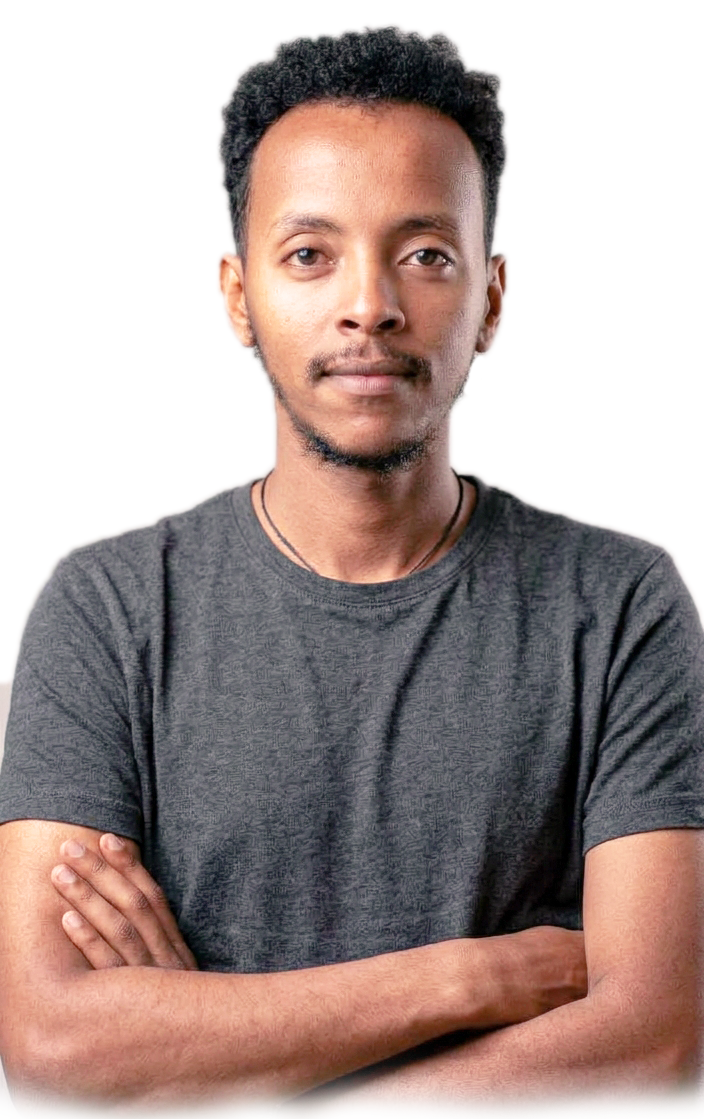
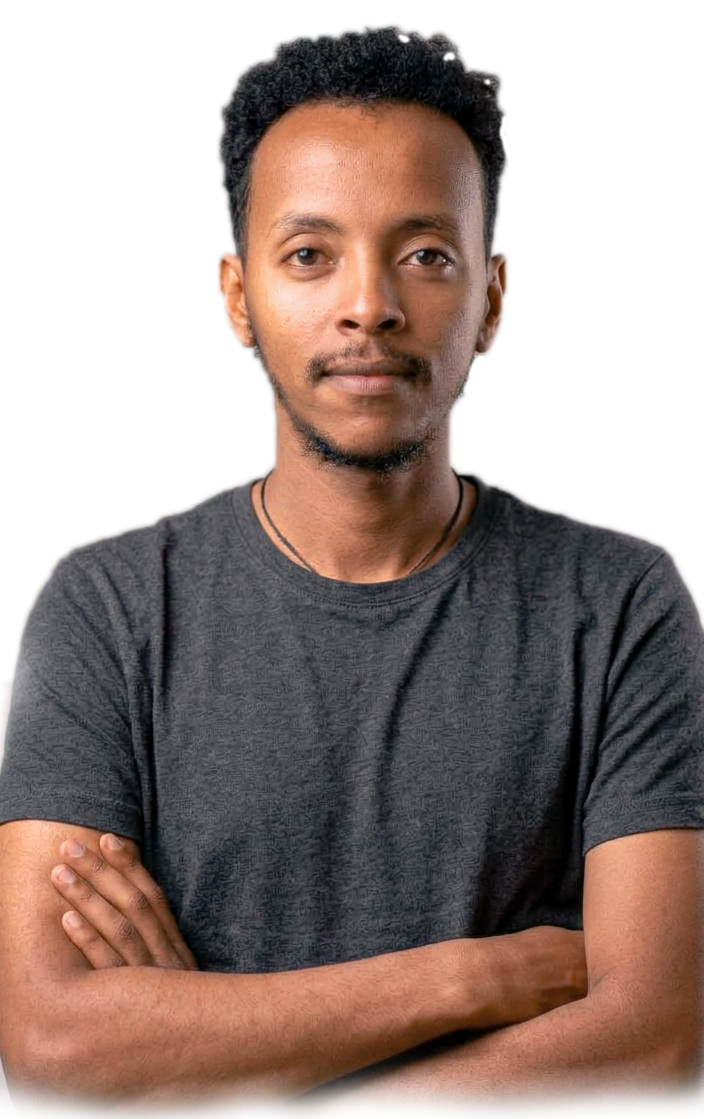
final

diff --git a/index.html b/index.html
@@ -166,6 +166,54 @@ input.error,textarea.error,select.error{border-color:#d93f3f}.form-error{font-si
 @media(max-width:700px){.hide-mobile{display:none}.hero-metrics{grid-template-columns:1fr 1fr}.hero-metric:nth-child(3){border-left:0;padding-left:0}.hero-metric:nth-child(n+3){border-top:1px solid var(--line);margin-top:1rem}.hero-actions .btn{flex:1 1 auto}.t-nav{display:none!important}}
 @media(prefers-reduced-motion:reduce){*,*::before,*::after{animation:none!important;transition:none!important;scroll-behavior:auto!important}}
 @media print{.navbar,.floating-actions,.scroll-progress,.skip-link{display:none}}
+
+/* ===== Modern motion layer (additive) ===== */
+/* hero photo slideshow */
+.profile-photo{isolation:isolate;transition:transform .6s cubic-bezier(.2,.7,.2,1);will-change:transform}
+.profile-photo::after{content:"";position:absolute;inset:auto 0 0 0;height:5rem;background:linear-gradient(transparent,rgba(5,15,20,.5));z-index:4;pointer-events:none}
+.photo-slide{opacity:0;z-index:1;transform:scale(1.05);filter:blur(10px) saturate(.85);transition:opacity 1.2s ease,filter 1.2s ease}
+.photo-slide.active{opacity:1;z-index:2;filter:none;animation:photoIn 1.3s cubic-bezier(.77,0,.18,1) both,kenburns 6.5s cubic-bezier(.3,.6,.3,1) both}
+@keyframes photoIn{from{clip-path:inset(0 0 0 100%)}to{clip-path:inset(0 0 0 0)}}
+@keyframes kenburns{from{transform:scale(1)}to{transform:scale(1.05)}}
+.photo-paused .photo-slide.active{animation-play-state:paused}
+.photo-dots{position:absolute;left:1rem;right:1rem;bottom:.35rem;display:flex;gap:.4rem;z-index:5}
+.photo-dot{flex:1;height:1.1rem;display:flex;align-items:center;background:none;border:0;padding:0;cursor:pointer}
+.photo-dot[hidden]{display:none}
+.photo-dot span{display:block;width:100%;height:3px;border-radius:9px;background:rgba(255,255,255,.35);position:relative;overflow:hidden}
+.photo-dot span::after{content:"";position:absolute;inset:0;background:#fff;transform:scaleX(0);transform-origin:left}
+.photo-dot.done span::after{transform:scaleX(1)}
+.photo-dot.active span::after{animation:dotfill 5s linear forwards}
+.photo-paused .photo-dot.active span::after{animation-play-state:paused}
+@keyframes dotfill{to{transform:scaleX(1)}}
+.hero-visual::before,.hero-visual::after{animation:bracket 3.2s ease-in-out infinite alternate}
+@keyframes bracket{to{transform:translate(-3px,-3px);opacity:.8}}
+.hero-visual::after{animation-name:bracket2}
+@keyframes bracket2{to{transform:translate(3px,3px);opacity:.8}}
+/* section title accent */
+.section-title{position:relative;padding-bottom:.6rem}
+.section-title::after{content:"";position:absolute;left:0;bottom:0;height:3px;width:2.6rem;background:var(--gold);border-radius:9px;transform:scaleX(0);transform-origin:left;transition:transform .9s .3s cubic-bezier(.2,.7,.2,1)}
+.section-header.in .section-title::after,.section-header:not(.reveal) .section-title::after{transform:scaleX(1)}
+/* card hover */
+.certificate-card,.project-card,.skills-category,.about-card{transition:transform .35s cubic-bezier(.2,.7,.2,1),box-shadow .35s ease,border-color .35s ease}
+@media(hover:hover){.certificate-card:hover,.project-card:hover,.skills-category:hover,.about-card:hover{transform:translateY(-4px);box-shadow:var(--sh);border-color:var(--ink3)}}
+.certificate-image img,.project-image img{transition:transform .6s cubic-bezier(.2,.7,.2,1)}
+@media(hover:hover){.certificate-card:hover .certificate-image img{transform:scale(1.06)}}
+/* scroll reveal (only applied by JS, only when motion is allowed) */
+@media(prefers-reduced-motion:no-preference){
+.reveal{opacity:0;translate:0 28px;scale:.98;transition:opacity .8s cubic-bezier(.2,.7,.2,1) var(--d,0s),translate .8s cubic-bezier(.2,.7,.2,1) var(--d,0s),scale .8s cubic-bezier(.2,.7,.2,1) var(--d,0s)}
+.reveal.from-left{translate:-32px 0}.reveal.from-right{translate:32px 0}.reveal.zoom{translate:0 18px;scale:.94}
+.reveal.in{opacity:1;translate:0 0;scale:1}
+}
+/* scroll progress */
+#scrollProgress{position:fixed;top:0;left:0;right:0;height:3px;z-index:999;transform:scaleX(0);transform-origin:left;background:linear-gradient(90deg,var(--gold),var(--link));pointer-events:none}
+/* skills */
+.skill-bar{transition:height .25s ease}.skill-item:hover .skill-bar{height:.5rem}
+.skill-progress{position:relative;transition:width 1.6s cubic-bezier(.33,1,.68,1)}
+.skill-progress::after{content:"";position:absolute;inset:0;background:linear-gradient(100deg,transparent 30%,rgba(255,255,255,.55) 50%,transparent 70%);transform:translateX(-100%)}
+.skill-progress.filled::after{animation:shimmer 1.4s 1.2s ease-out 1}
+@keyframes shimmer{to{transform:translateX(100%)}}
+.skill-info span:last-child{min-width:2.8em;text-align:right}
+.skill-info span.counting{color:var(--link);font-weight:700}
 </style>
 </head>
 <body>
@@ -252,7 +300,10 @@ input.error,textarea.error,select.error{border-color:#d93f3f}.form-error{font-si
         <div class="profile-photo" id="profilePhoto">
           <img class="photo-slide active" src="assets/images/Profile.png" alt="Yohannes Reta" loading="eager">
           <img class="photo-slide" src="assets/images/Profile1.png" alt="Yohannes Reta" loading="lazy">
-          <!-- <img class="photo-slide" src="assets/images/profile3.png" alt="Yohannes Reta" loading="lazy">  -->
+          <img class="photo-slide" src="assets/images/Profile2.png" alt="Yohannes Reta" loading="lazy">
+          <img class="photo-slide" src="assets/images/Profile3.png" alt="Yohannes Reta" loading="lazy">
+          <img class="photo-slide" src="assets/images/Profile4.png" alt="Yohannes Reta" loading="lazy">
+          <img class="photo-slide" src="assets/images/Profile5.png" alt="Yohannes Reta" loading="lazy">
         </div>
 
         <div class="visual-footer">
@@ -570,6 +621,10 @@ input.error,textarea.error,select.error{border-color:#d93f3f}.form-error{font-si
           <div class="certificate-card glass accent-top">
             <div class="certificate-image"><img src="assets/images/Certificates/CCNA1.png" alt="CCNA Certification" loading="lazy"><div class="certificate-overlay"><button class="certificate-view" data-cert="ccna" aria-label="View certificate full size"><i class="bx bx-zoom-in"></i></button></div></div>
             <div class="certificate-content"><h3>CCNA – Cisco Certified</h3><p>Network administration &amp; configuration</p><div class="certificate-tag">Cisco</div><a href="https://www.credly.com/badges/36dbb409-84d8-4ed2-afa3-10fe5e40dd38" class="certificate-verify" target="_blank" rel="noopener"><i class="bx bx-check-shield"></i><span>Verify on Credly</span></a></div>
+          </div>
+          <div class="certificate-card glass accent-top">
+            <div class="certificate-image"><img src="assets/images/Certificates/DataCenter.jpg" alt="Data Center IT Infrastructure - ExpertEase Global" loading="lazy"><div class="certificate-overlay"><button class="certificate-view" data-cert="datacenter" aria-label="View certificate full size"><i class="bx bx-zoom-in"></i></button></div></div>
+            <div class="certificate-content"><h3>Data Center IT Infrastructure</h3><p>Data Center IT Fundamentals: core infrastructure components, servers, storage, networking, power and cooling</p><div class="certificate-tag">ExpertEase Global</div><a href="https://www.udemy.com/certificate/UC-b698d3e4-c003-4839-9a16-fb720cc9074b/" class="certificate-verify" target="_blank" rel="noopener"><i class="bx bx-check-shield"></i><span>Verify on Udemy</span></a></div>
           </div>
           <div class="certificate-card glass accent-top">
             <div class="certificate-image"><img src="assets/images/Certificates/Junior.png" alt="Cisco Junior Cybersecurity Analyst Career Path" loading="lazy"><div class="certificate-overlay"><button class="certificate-view" data-cert="junior-cyber" aria-label="View certificate full size"><i class="bx bx-zoom-in"></i></button></div></div>
@@ -896,7 +951,8 @@ input.error,textarea.error,select.error{border-color:#d93f3f}.form-error{font-si
         'junior-cyber': 'assets/images/Certificates/Junior.png',
         'pm-iibm': 'assets/images/Certificates/PM2.png',
         'agile': 'assets/images/Certificates/agile.jpg',
-        'quality': 'assets/images/Certificates/QA.png'
+        'quality': 'assets/images/Certificates/QA.png',
+        'datacenter': 'assets/images/Certificates/DataCenter.jpg'
       };
 
       viewButtons.forEach(btn => {
@@ -915,17 +971,42 @@ input.error,textarea.error,select.error{border-color:#d93f3f}.form-error{font-si
       document.addEventListener('keydown', (e) => { if (e.key === 'Escape' && modal.classList.contains('active')) closeCert(); });
 
       /* ---------- Skill bars animation ---------- */
+      const yrCountTo = (el, to, o = {}) => {
+        const { dur = 1600, delay = 0, suffix = '', prefix = '' } = o;
+        const done = () => { el.textContent = prefix + to + suffix; el.classList.remove('counting'); };
+        if (window.matchMedia('(prefers-reduced-motion: reduce)').matches) { done(); return; }
+        el.textContent = prefix + 0 + suffix;
+        setTimeout(() => {
+          el.classList.add('counting');
+          const t0 = performance.now();
+          const tick = (now) => {
+            const p = Math.min((now - t0) / dur, 1), e = 1 - Math.pow(1 - p, 3);
+            el.textContent = prefix + Math.round(to * e) + suffix;
+            if (p < 1) requestAnimationFrame(tick); else done();
+          };
+          requestAnimationFrame(tick);
+        }, delay);
+      };
       const skillBars = document.querySelectorAll('.skill-progress');
       if ('IntersectionObserver' in window) {
         const skillObserver = new IntersectionObserver((entries) => {
           entries.forEach(entry => {
             if (entry.isIntersecting) {
-              entry.target.style.width = entry.target.dataset.target;
+              const bar = entry.target;
+              const item = bar.closest('.skill-item');
+              const idx = item ? Array.prototype.indexOf.call(item.parentElement.children, item) : 0;
+              const delay = idx * 130;
+              const lbl = item && item.querySelector('.skill-info span:last-child');
+              setTimeout(() => { bar.style.width = bar.dataset.target; bar.classList.add('filled'); }, delay);
+              if (lbl) yrCountTo(lbl, parseFloat(lbl.dataset.final) || 0, { delay, suffix: '%', dur: 1600 });
               skillObserver.unobserve(entry.target);
             }
           });
         }, { threshold: 0.3 });
-        skillBars.forEach(bar => { bar.dataset.target = bar.style.width; bar.style.width = '0%'; skillObserver.observe(bar); });
+        skillBars.forEach(bar => { bar.dataset.target = bar.style.width; bar.style.width = '0%';
+          const lb = bar.closest('.skill-item') && bar.closest('.skill-item').querySelector('.skill-info span:last-child');
+          if (lb) { lb.dataset.final = parseFloat(lb.textContent) || 0; lb.textContent = '0%'; }
+          skillObserver.observe(bar); });
       }
 
       /* ---------- Hero photo crossfade slideshow ---------- */
@@ -988,8 +1069,128 @@ input.error,textarea.error,select.error{border-color:#d93f3f}.form-error{font-si
           current = next;
         }
 
-        setInterval(advanceSlide, 5000);
+        /* --- modern controls: progress dots, hover pause, click-to-jump, 3D tilt --- */
+        const dotsWrap = document.createElement('div');
+        dotsWrap.className = 'photo-dots';
+        const dots = slides.map((sl, i) => {
+          const b = document.createElement('button');
+          b.type = 'button'; b.className = 'photo-dot';
+          b.setAttribute('aria-label', 'Show photo ' + (i + 1));
+          b.innerHTML = '<span></span>';
+          b.addEventListener('click', () => goTo(i));
+          dotsWrap.appendChild(b);
+          return b;
+        });
+        photoContainer.appendChild(dotsWrap);
+
+        function syncDots() {
+          let usable = 0;
+          dots.forEach((d, i) => {
+            const broken = slides[i].dataset.broken === '1';
+            d.hidden = broken; if (!broken) usable++;
+            const active = slides[i].classList.contains('active');
+            d.classList.toggle('active', active);
+            d.classList.toggle('done', !active && i < current);
+          });
+          dotsWrap.style.display = usable > 1 ? '' : 'none';
+        }
+        function goTo(i) {
+          if (i === current || slides[i].dataset.broken === '1') return;
+          slides[current].classList.remove('active');
+          slides[i].classList.add('active');
+          current = i;
+          syncDots(); schedule();
+        }
+        new MutationObserver(syncDots).observe(photoContainer, { subtree: true, attributes: true, attributeFilter: ['class', 'data-broken'] });
+        syncDots();
+
+        let timer = null, hovering = false;
+        function schedule() {
+          clearTimeout(timer);
+          timer = setTimeout(() => { if (!hovering && !document.hidden) advanceSlide(); schedule(); }, 5000);
+        }
+        photoContainer.addEventListener('mouseenter', () => { hovering = true; photoContainer.classList.add('photo-paused'); clearTimeout(timer); });
+        photoContainer.addEventListener('mouseleave', () => {
+          hovering = false; photoContainer.classList.remove('photo-paused');
+          const ad = dots.find(d => d.classList.contains('active'));
+          if (ad) { ad.classList.remove('active'); void ad.offsetWidth; ad.classList.add('active'); }
+          schedule();
+        });
+        schedule();
+
+        const heroVisual = document.querySelector('.hero-visual');
+        if (heroVisual && window.matchMedia('(hover:hover) and (pointer:fine)').matches && !window.matchMedia('(prefers-reduced-motion: reduce)').matches) {
+          heroVisual.addEventListener('pointermove', (e) => {
+            const r = photoContainer.getBoundingClientRect();
+            const x = (e.clientX - r.left) / r.width - 0.5, y = (e.clientY - r.top) / r.height - 0.5;
+            photoContainer.style.transform = `perspective(900px) rotateY(${x * 8}deg) rotateX(${-y * 8}deg)`;
+          });
+          heroVisual.addEventListener('pointerleave', () => { photoContainer.style.transform = ''; });
+        }
       }
+
+      /* ---------- Modern scroll animations ---------- */
+      (function () {
+        const reduce = window.matchMedia('(prefers-reduced-motion: reduce)').matches;
+
+        // Scroll progress bar
+        const prog = document.createElement('div');
+        prog.id = 'scrollProgress'; prog.setAttribute('aria-hidden', 'true');
+        document.body.appendChild(prog);
+        let ticking = false;
+        const updateProg = () => {
+          const h = document.documentElement.scrollHeight - window.innerHeight;
+          prog.style.transform = 'scaleX(' + (h > 0 ? Math.min(window.scrollY / h, 1) : 0) + ')';
+          ticking = false;
+        };
+        window.addEventListener('scroll', () => { if (!ticking) { ticking = true; requestAnimationFrame(updateProg); } }, { passive: true });
+        updateProg();
+
+        // Hero metric count-up (6+, 25%, 90%, 95%+)
+        const metrics = document.querySelectorAll('.metric-value');
+        const runMetric = (el) => {
+          const mm = el.textContent.trim().match(/^(\D*)(\d+)(.*)$/);
+          if (!mm) return;
+          yrCountTo(el, parseInt(mm[2], 10), { prefix: mm[1], suffix: mm[3], dur: 1500, delay: 300 });
+        };
+        if ('IntersectionObserver' in window && metrics.length) {
+          const mo = new IntersectionObserver((es) => es.forEach(en => { if (en.isIntersecting) { runMetric(en.target); mo.unobserve(en.target); } }), { threshold: 0.6 });
+          metrics.forEach(m => { const mm = m.textContent.trim().match(/^(\D*)(\d+)(.*)$/); if (mm && !reduce) m.textContent = mm[1] + '0' + mm[3]; mo.observe(m); });
+        }
+
+        // Scroll reveal
+        if (reduce || !('IntersectionObserver' in window)) return;
+        const groups = [
+          ['.section-header', ''],
+          ['.about-card', ''],
+          ['.timeline-item', 'from-left'],
+          ['.project-card', 'zoom'],
+          ['.skills-category', ''],
+          ['.certificate-card', 'zoom'],
+          ['.contact-layout > *', ''],
+          ['.footer-column', '']
+        ];
+        const io = new IntersectionObserver((entries) => {
+          entries.forEach(en => {
+            if (!en.isIntersecting) return;
+            const el = en.target;
+            el.classList.add('in');
+            io.unobserve(el);
+            const wait = (parseFloat(el.style.getPropertyValue('--d')) || 0) * 1000 + 1300;
+            setTimeout(() => el.classList.remove('reveal', 'in', 'from-left', 'from-right', 'zoom'), wait);
+          });
+        }, { threshold: 0.12, rootMargin: '0px 0px -6% 0px' });
+        groups.forEach(([sel, variant]) => {
+          document.querySelectorAll(sel).forEach((el) => {
+            const sibs = Array.prototype.filter.call(el.parentElement.children, c => c.matches(sel));
+            const k = sibs.indexOf(el) % 3;
+            el.style.setProperty('--d', (k * 0.1) + 's');
+            el.classList.add('reveal');
+            if (variant) el.classList.add(variant);
+            io.observe(el);
+          });
+        });
+      })();
 
       /* ---------- Contact form — dual-mode with automatic fallback ----------
          1st attempt: your own PHP + MySQL backend on portfolio.yeneflow.com
